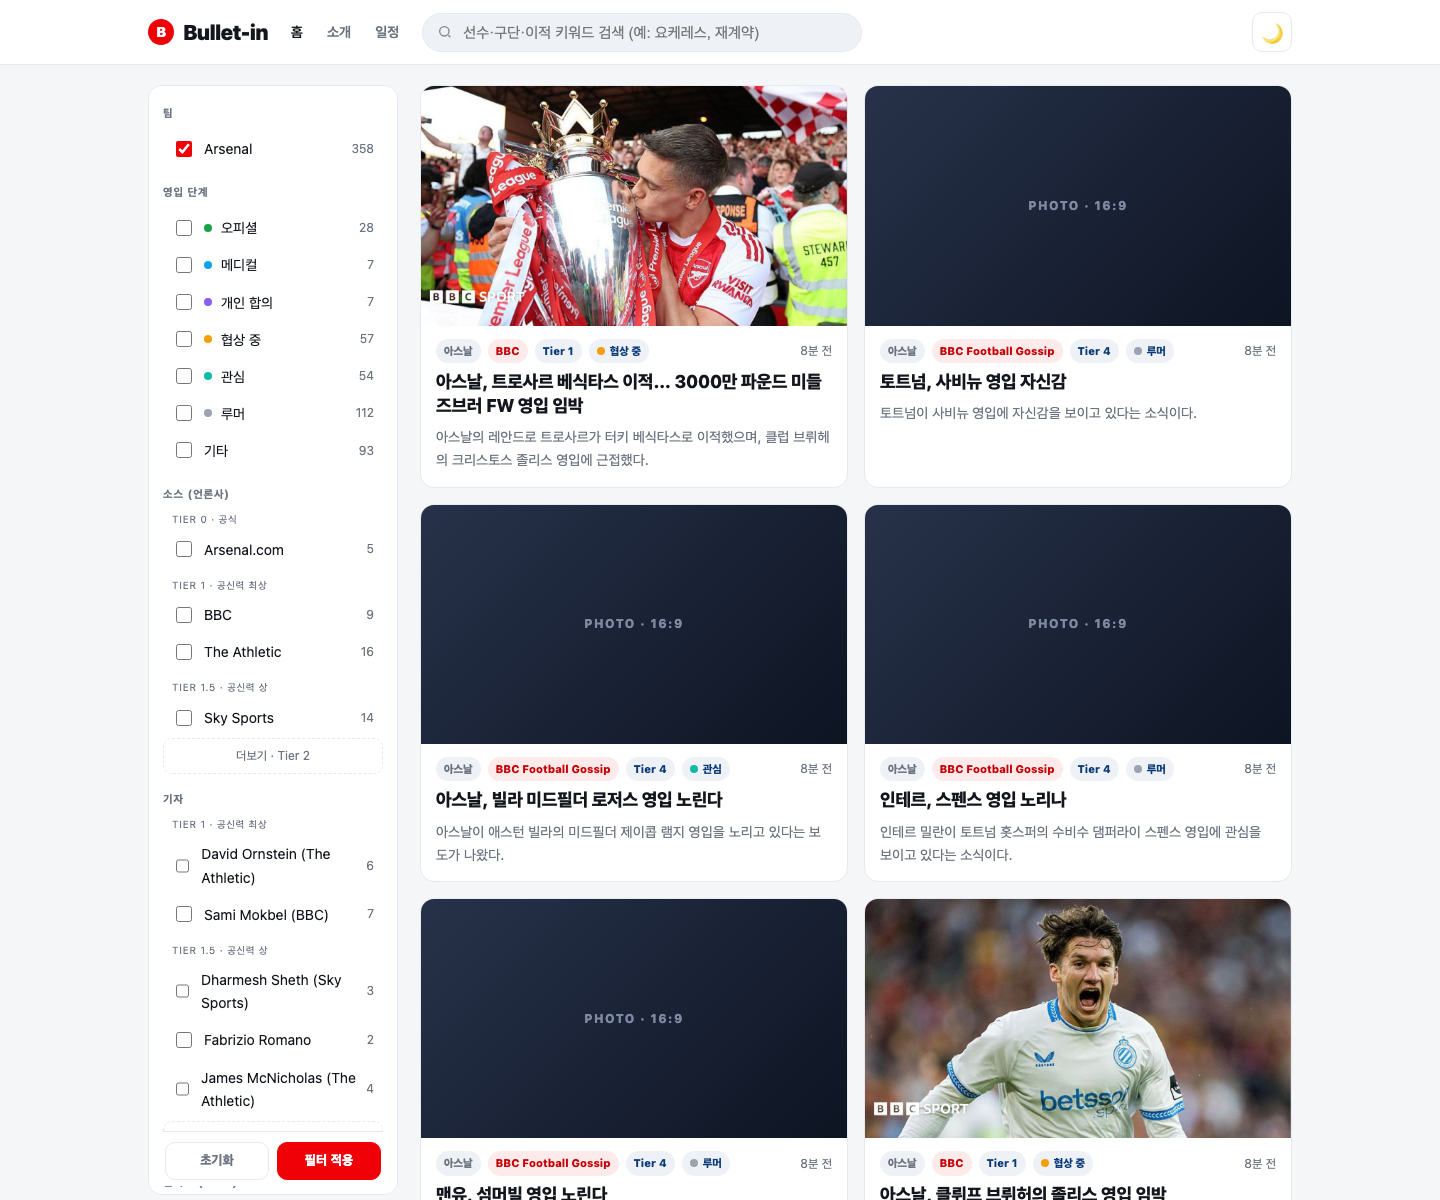
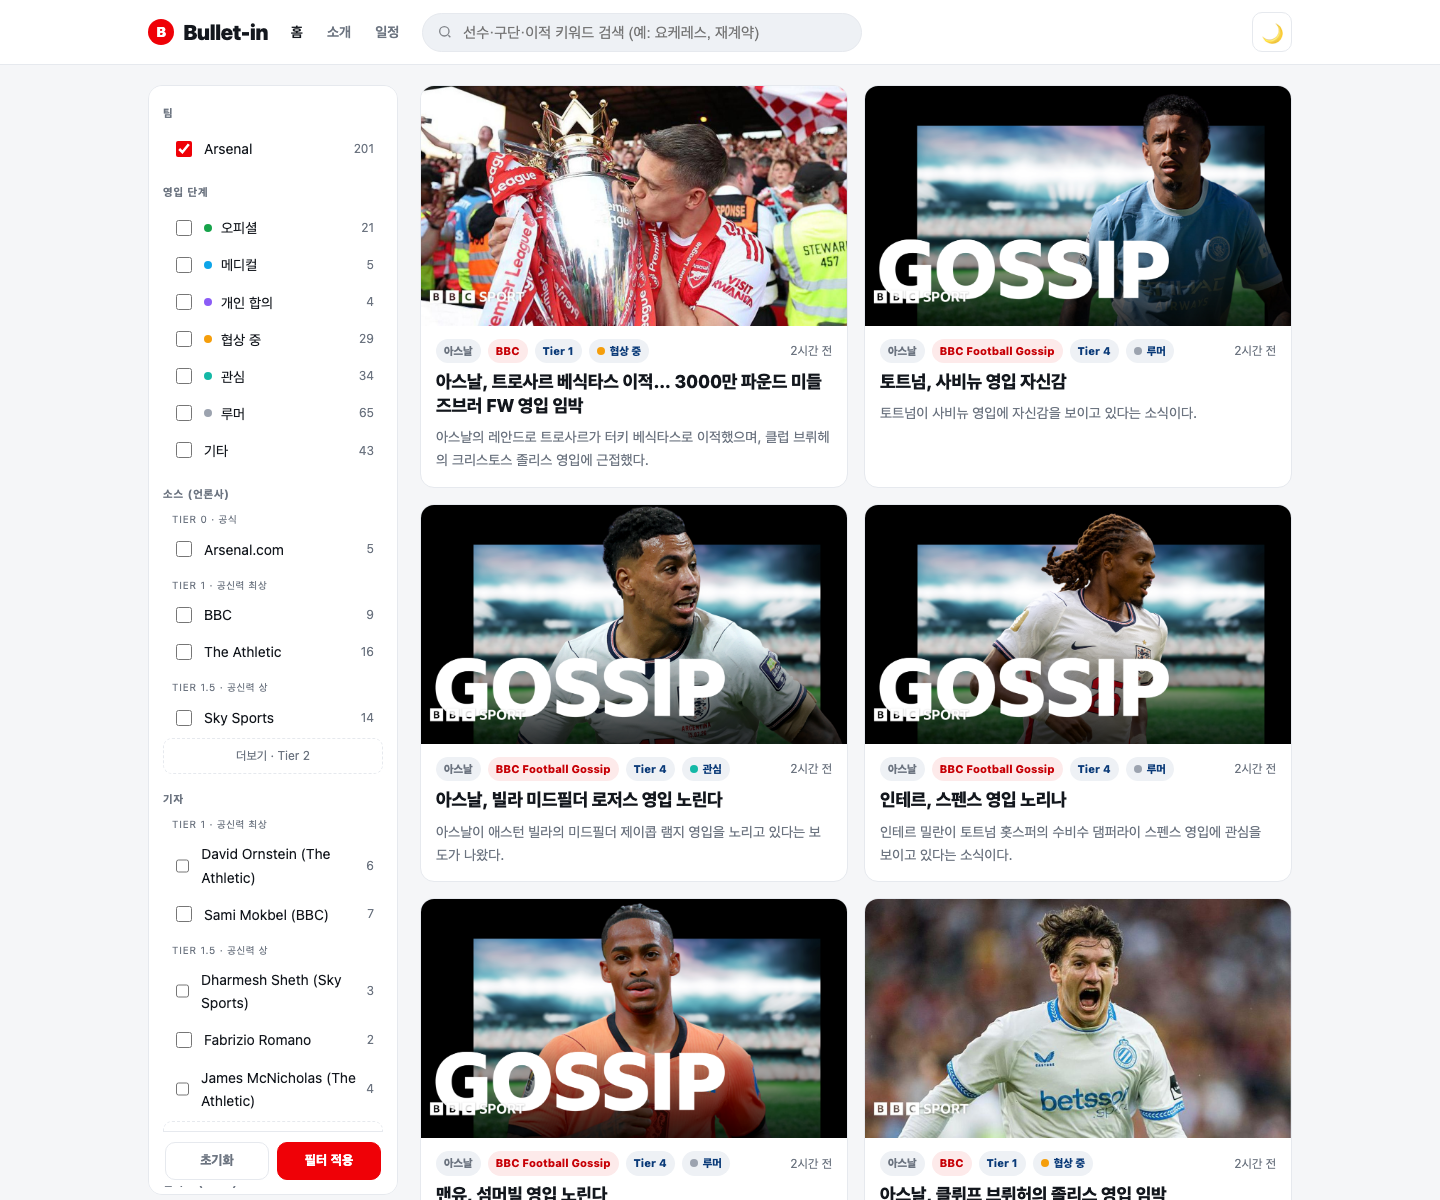
docs: 트랙 ② 라이브 반영 — 캡처 재촬영 · 정리 실행 기록
PR #60 머지 후 라이브 반영 (백필 · 삭제 · 사이클) 결과를 기록하고,
gossip 썸네일이 반영된 화면으로 README 캡처를 재촬영한다 (측정 런북 §6).

- README 캡처 2장 갱신 — 인덱스 PHOTO 플레이스홀더 해소 · 상세 동일 기사 재촬영
- 정리 런북 §7 실행 기록 — 백필 45/45 · DELETE 157 (Canton 63 잔존) · 재유입 0

Refs: docs/runbook/2026-07-19-football-london-canton-cleanup.md

Changed region(s): [[0.2812, 0.4008, 0.9062, 0.6475], [0.2812, 0.74, 0.5938, 0.9558], [0.5938, 0.0617, 0.9062, 0.2775]]

diff --git a/docs/runbook/2026-07-19-football-london-canton-cleanup.md b/docs/runbook/2026-07-19-football-london-canton-cleanup.md
@@ -55,3 +55,14 @@ WHERE source_id='football_london' GROUP BY journalist;
   allowlist 필터가 그 시점에 drop 하므로 부활하지 않는다 — 이것이 §2 의 순서 (필터 선배포) 가 필수인 이유다.
 - **enrich 산출물 동반 소실**: 삭제 행의 번역 · 요약 · 분류도 함께 사라진다.
   의도된 결과 — Canton 외 기사는 제품에서 제외가 방침이라 재생성 비용이 없다.
+
+## 7. 실행 기록 (2026-07-19, PR #60 머지 직후)
+
+- 순서 준수: 필터 머지 (squash `59d098f`) 확인 후 실행.
+- 백필 선행: bbc_gossip image_url 45건 중 성공 45 · 실패 0.
+- 사전 확인: 삭제 대상 157 · Canton 잔존 63 · NULL 0
+→ §3 기대값과 전건 일치, 삭제 실행.
+- 사후 검증: football_london 잔존 = Tom Canton 63건만, mart 전체 358 → 201건.
+- 재유입 검증: 직후 전체 사이클 1회 (fmkorea 2h 창 준수, 마지막 접촉 +2h 경과 후 실행)
+→ 신규 적재 0 · 에러 0 · football_london 63건 유지 = allowlist drop 실동작 확인.
+- 캡처 재촬영: 측정 런북 §6 절차로 인덱스 · 상세 갱신 (gossip 썸네일 반영 · 플레이스홀더 해소).